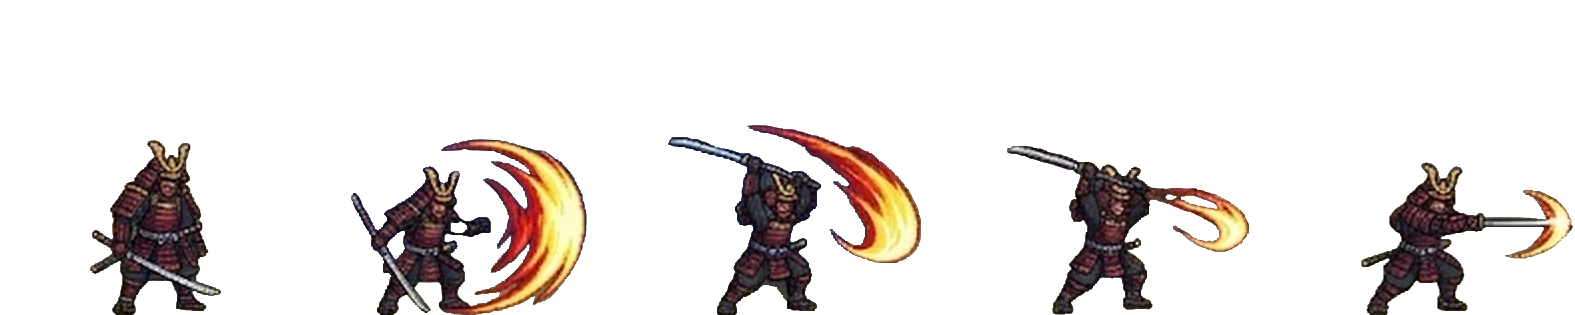
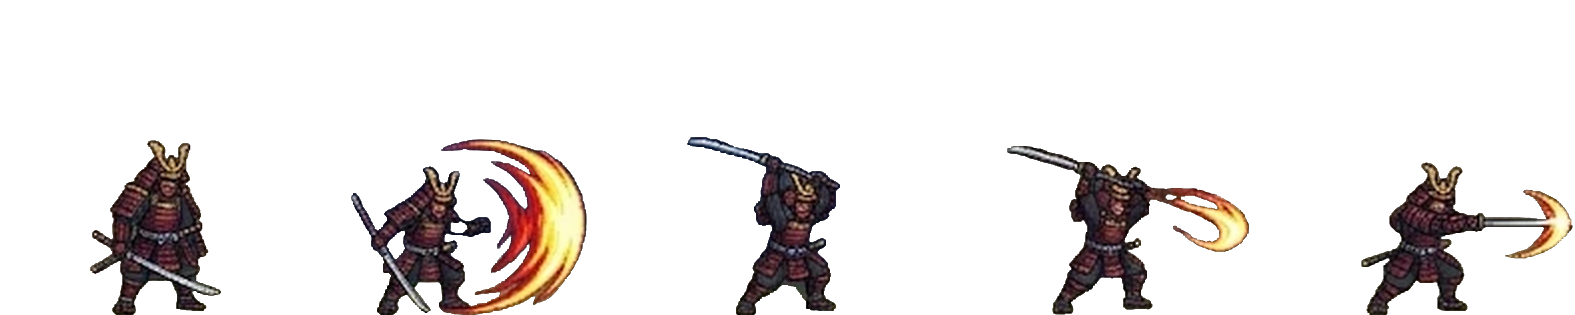
Art clean-up: remove neighbouring-figure pieces, fused and grid-sliced frames from every summon strip; fan heroes' legs rigged on the real leg columns (scythe, pole, hair, tail stay on the body); vivid red dragon form; summons spawn side by side

Changed region(s): [[0.4044, 0.4, 0.5911, 1.0]]

diff --git a/src/game.js b/src/game.js
@@ -5010,7 +5010,7 @@
   ['kayn', 'rhaast', 'tom', 'jerry', 'luffy', 'sonic', 'kirby', 'jotaro', 'dio', 'miku'].forEach(k => {
     const im = new Image(); im.onload = () => {
       const w = Math.round(im.width * FAN_SC), h = Math.round(im.height * FAN_SC), mk = flip => { const c = document.createElement('canvas'); c.width = w; c.height = h; const x = c.getContext('2d'); x.imageSmoothingEnabled = true; x.imageSmoothingQuality = 'high'; if (flip) { x.translate(w, 0); x.scale(-1, 1); } x.drawImage(im, 0, 0, w, h); return c; };
-      const c = mk(false), f = mk(true); FAN_IMG[k] = { im, spr: { c, f, cw: c, fw: f, w, h } };
+      const c = mk(false), f = mk(true); FAN_IMG[k] = { im, spr: { c, f, cw: c, fw: f, w, h }, parts: fanParts(k, im) };
     }; im.src = 'assets/fanheroes/' + k + '.png';
   });
   const fanKey = (h, P) => (P && P.form === 'rhaast' && h.fan === 'kayn') ? 'rhaast' : h.fan;
@@ -5020,10 +5020,18 @@
   }
   // the hero in play: the drawing at full screen resolution, moved by the shared animator (idle breath, walk, run, jump, hurt red)
   // where the legs start in each picture (fraction of the height): the part below swings as two legs
-  const FAN_RIG = { kayn: 0.74, rhaast: 0.76, tom: 0.84, jerry: 0.86, luffy: 0.8, sonic: 0.84, kirby: 0.8, jotaro: 0.8, dio: 0.8, miku: 0.8 };
+  // legs of each picture in native pixels: hip row, the leg columns x0..x1 and where the left leg ends (sp); everything else
+  // (Kayn's scythe, Rhaast's pole, Miku's twin tails, Jerry's tail...) stays fixed to the body
+  const FAN_RIG = { kayn: [36, 0, 31, 15], rhaast: [37, 4, 32, 18], tom: [39, 7, 29, 18], jerry: [38, 12, 37, 24], luffy: [37, 7, 25, 16], sonic: [40, 11, 36, 23], kirby: [33, 3, 41, 22], jotaro: [38, 0, 31, 15], dio: [38, 6, 26, 16], miku: [38, 10, 25, 17] };
+  function fanParts(key, im) {
+    const r = FAN_RIG[key] || [Math.round(im.height * 0.8), 0, im.width - 1, Math.round(im.width / 2)], [hy, x0, x1, sp] = r, H = im.height, top = hy - 2;
+    const cut = (sx, sy, w, h) => { const c = document.createElement('canvas'); c.width = w; c.height = h; c.getContext('2d').drawImage(im, sx, sy, w, h, 0, 0, w, h); return c; };
+    const body = document.createElement('canvas'); body.width = im.width; body.height = H; const bx = body.getContext('2d'); bx.drawImage(im, 0, 0); bx.clearRect(x0, hy, x1 - x0 + 1, H - hy);
+    return { body, L: cut(x0, top, sp - x0 + 1, H - top), R: cut(sp + 1, top, x1 - sp, H - top), lx: x0, rx: sp + 1, top };
+  }
   // the hero in play: the drawing at full screen resolution, animated like a puppet (body + left leg + right leg)
   function drawFanHero(P, h, x, bot) {
-    const key = fanKey(h, P), o = FAN_IMG[key]; if (!o) return false; const im = o.im, W = im.width, H = im.height, hy = Math.round(H * (FAN_RIG[key] || 0.8)), half = Math.round(W / 2);
+    const key = fanKey(h, P), o = FAN_IMG[key]; if (!o) return false; const im = o.im, W = im.width, H = im.height, pp = o.parts;
     const sp = Math.abs(P.vx), onG = P.onGround, moving = onG && sp > 15, run = sp > RUN * 0.72, f = P.face < 0 ? -1 : 1;
     let bodyY = 0, bodyX = 0, lean = 0, sx = 1, sy = 1; const L = { x: 0, y: 0 }, R = { x: 0, y: 0 };
     if (P.hurtA > 0) { const k = 1 - P.hurtA / 0.36; lean = -0.18 * Math.sin(k * Math.PI); bodyX = -2 * Math.sin(k * Math.PI); }
@@ -5042,8 +5050,8 @@
     if (h.mech === 'toon') { if (P.landA > 0) { sx *= 1.2; sy *= 0.8; } else if (!onG) { sy *= P.vy < 0 ? 1.15 : 1.05; sx *= 2 - sy; } }
     const parts = () => {
       const back = moving && Math.sin(P.anim * (run ? 14 : 9)) > 0 ? 'R' : 'L';   // the leg in front is drawn last
-      const leg = side => { const A = side === 'L' ? L : R, x0 = side === 'L' ? 0 : half, w = side === 'L' ? half : W - half; hiImg(im, x0, hy, w, H - hy, -W / 2 + x0 + A.x, -H + hy + A.y, w, H - hy); };
-      leg(back); hiImg(im, 0, 0, W, hy + 2, -W / 2 + bodyX, -H + bodyY, W, hy + 2); leg(back === 'L' ? 'R' : 'L');
+      const leg = side => { const A = side === 'L' ? L : R, c = side === 'L' ? pp.L : pp.R, lx = side === 'L' ? pp.lx : pp.rx; hiImg(c, 0, 0, c.width, c.height, -W / 2 + lx + A.x, -H + pp.top + A.y, c.width, c.height); };
+      leg(back); hiImg(pp.body, 0, 0, W, H, -W / 2 + bodyX, -H + bodyY, W, H); leg(back === 'L' ? 'R' : 'L');
     };
     g.save(); g.translate(x, bot); g.rotate(lean * f); g.scale(f * FAN_SC * sx, FAN_SC * sy); g.imageSmoothingEnabled = true;
     if (P.dash > 0) g.globalAlpha = 0.75;
@@ -6345,7 +6353,9 @@
     const o = owner || Q.P, G = Q.G; if (!G.sums) G.sums = [];
     const B = Q.boss, tg = B && Q.arenaSealed && !B.dead && !B.hide ? B : nearestFoe(o.x + 4, o.y, 600), dir = tg ? (tg.x + tg.w / 2 < o.x + 4 ? -1 : 1) : o.face;
     const ent = SUM_ENT[kind] || 'beam', fly = !!SUM_FLY[kind], glow = (GIANT[kind] || BEAST[kind]).glow;
-    let x = from ? from.x : (ent === 'shadow' ? o.x + 4 : o.x + 4 + dir * (ent === 'meteor' ? 74 : 56)); if (Q.arenaSealed) x = arenaClamp(x);
+    let x = from ? from.x : (ent === 'shadow' ? o.x + 4 : o.x + 4 + dir * (ent === 'meteor' ? 74 : 56));
+    { const n = G.sums.filter(q => q.life > 0 && !q.dying).length; if (n && !from) x += (n % 2 ? -1 : 1) * 40 * Math.ceil(n / 2); }   // several summons do not stand on top of each other
+    if (Q.arenaSealed) x = arenaClamp(x);
     const sp0 = from ? { x, y: sumProbe(x, from.y - 18, 8) ?? sumSpawnPoint(o, x).y } : sumSpawnPoint(o, x); x = sp0.x;
     const gy = sp0.y, y = fly ? gy - 60 : gy, L = (life || 7) + (ENT_T[ent] || 1) + 1.6;
     const sm = { evo: !!evo, stage: 1, hp: sumHp(1), hpMax: sumHp(1), inv: 9, kind, life: L, max: L, t: 0, x, y, f: dir, cd: 0.6, n: 0, owner: o, ph: 'enter', pt: 0, ent, ex: x, ey: y, fromPet: !!from };
@@ -6696,7 +6706,7 @@
   // ===== the artist's summon sprites (assets/summons, cut from art/summon_sheets by tools/extract_summons.py) =====
   let SUM_MAN = null; const SUM_IMG = {};
   fetch('assets/summons/manifest.json').then(r => r.ok ? r.json() : null).then(m => { SUM_MAN = m || {}; }).catch(() => { SUM_MAN = {}; });
-  const SUM_ALIAS = { dragonform: ['dragonking', 'hue-rotate(-38deg) saturate(1.35) brightness(0.92)'] };
+  const SUM_ALIAS = { dragonform: ['dragonking', 'hue-rotate(-42deg) saturate(1.7) brightness(1.08) contrast(1.05)'] };
   const SUM_H = { titan: 74, stormgod: 74, seagoddess: 68, moongoddess: 68, frostgiant: 80, shogun: 58, treant: 80, aegis: 56, valkyrie: 56, angel: 60, golems: 46, phoenix: 50, dragonking: 66, dragonform: 66, ninetail: 42, clones: 28 };   // body height in world pixels (the hero is ~20)
   function sumArt(k) {
     if (SUM_IMG[k]) return SUM_IMG[k]; if (!SUM_MAN) return null;
@@ -7718,5 +7728,5 @@
       seal(); if (n > 0) { applyForm(Q.boss, n); Q.boss.st = 'intro'; Q.boss.timer = 0; Q.boss.invul = 0; } if (n >= 3) spawnAllies();
     }, 400); }
   { const m = location.search.match(/room=([A-Za-z0-9]{5})/); if (m) setTimeout(() => { enterScene('coop'); coopJoin(m[1]); }, 300); }
-  if (location.search.indexOf('debug') >= 0) window.LL = { getCtx: () => g, get titleSel() { return titleSel; }, setTitleSel: v => { titleSel = v; }, updateTitle, titleLayout, titleItems, titleState: () => title, sumArt, drawSumArt, SUM_H, summonItems, castSummons, useSk, chargeHit, slotId, skNeed, petMorph, startCine, get cn() { return cn; }, drawCine, spawnSummon, updateSummons, sumTarget, summonSprite, summonParts, GIANT, BEAST, dragonSprite, startLevel, coopJoin, coopStart, coopHostNet, coopClientInput, coopClientTick, coopInit, newPlayer, asP, coopHostPlayers, mkCoopTest() { coopInit('host'); coop.me = 0; Q.me = Q.P; Q.P.slot = 0; setHero(Q.P, 'ember'); const p = newPlayer(); p.slot = 1; p.x = Q.P.x - 10; p.y = Q.P.y; p.safe = { x: p.x, y: p.y }; p.bag = { w: ['iron', null], armor: null, pet: null, own: ['iron'] }; p.ammo = { dagger: 5, bomb: 2, flask: 2 }; p.wcd = [0, 0]; p.wmax = [1, 1]; setHero(p, 'ember'); Q.players = [Q.P, p]; return p; }, get Q() { return Q; }, save, genLevel, BIOMES, setScene: s => { scene = s; }, startCut: li => { cutLevel = li; enterScene('cutscene'); }, cutAdv: sec => { for (let i = 0; i < sec * 100; i++) updateCut(0.01); return cut.phase + ' line ' + cut.i; }, cutNext: () => { act.okP = true; updateCut(0.01); act.okP = false; return cut.i; }, EN, BOSS, NPCS, kingSprite, horseSprite, hurtBoss, nextForm, spawnAllies, beginMini, makeFormBoss, FORMS, MINI, completeLevel, updatePlay, act, enterScene, equipItem, fireWeapon, useSlot, updateShopScene, drawShop, pressed, owned, cardAct, setTab, foes, hurtPlayer, grantLeek, openCard: id => { shopCard = { it: ITEM[id], opt: 0 }; }, shopSel: i => { shopIdx = i; }, get scene() { return scene; }, get op() { return op; }, startOpening, get coop() { return coop; }, resumeLevel, NET, coopUI, HEROES, setHero, heroSkill, clearPressed, solid, ch, maxHP, openGate, explode, solveAll() { for (const gd of Q.gates) { if (!gd.open) openGate(gd, true); if (gd.need === 'timed') gd.timer = 1e9; } for (const w of Q.L.xwalls) for (const t of w.tiles) { Q.L.grid[t[1]][t[0]] = ' '; Q.brokenX.add(t[0] + ',' + t[1]); } } };
+  if (location.search.indexOf('debug') >= 0) window.LL = { getCtx: () => g, get titleSel() { return titleSel; }, setTitleSel: v => { titleSel = v; }, updateTitle, titleLayout, titleItems, titleState: () => title, sumArt, drawSumArt, SUM_H, summonItems, castSummons, get FAN_IMG() { return FAN_IMG; }, FAN_RIG, useSk, chargeHit, slotId, skNeed, petMorph, startCine, get cn() { return cn; }, drawCine, spawnSummon, updateSummons, sumTarget, summonSprite, summonParts, GIANT, BEAST, dragonSprite, startLevel, coopJoin, coopStart, coopHostNet, coopClientInput, coopClientTick, coopInit, newPlayer, asP, coopHostPlayers, mkCoopTest() { coopInit('host'); coop.me = 0; Q.me = Q.P; Q.P.slot = 0; setHero(Q.P, 'ember'); const p = newPlayer(); p.slot = 1; p.x = Q.P.x - 10; p.y = Q.P.y; p.safe = { x: p.x, y: p.y }; p.bag = { w: ['iron', null], armor: null, pet: null, own: ['iron'] }; p.ammo = { dagger: 5, bomb: 2, flask: 2 }; p.wcd = [0, 0]; p.wmax = [1, 1]; setHero(p, 'ember'); Q.players = [Q.P, p]; return p; }, get Q() { return Q; }, save, genLevel, BIOMES, setScene: s => { scene = s; }, startCut: li => { cutLevel = li; enterScene('cutscene'); }, cutAdv: sec => { for (let i = 0; i < sec * 100; i++) updateCut(0.01); return cut.phase + ' line ' + cut.i; }, cutNext: () => { act.okP = true; updateCut(0.01); act.okP = false; return cut.i; }, EN, BOSS, NPCS, kingSprite, horseSprite, hurtBoss, nextForm, spawnAllies, beginMini, makeFormBoss, FORMS, MINI, completeLevel, updatePlay, act, enterScene, equipItem, fireWeapon, useSlot, updateShopScene, drawShop, pressed, owned, cardAct, setTab, foes, hurtPlayer, grantLeek, openCard: id => { shopCard = { it: ITEM[id], opt: 0 }; }, shopSel: i => { shopIdx = i; }, get scene() { return scene; }, get op() { return op; }, startOpening, get coop() { return coop; }, resumeLevel, NET, coopUI, HEROES, setHero, heroSkill, clearPressed, solid, ch, maxHP, openGate, explode, solveAll() { for (const gd of Q.gates) { if (!gd.open) openGate(gd, true); if (gd.need === 'timed') gd.timer = 1e9; } for (const w of Q.L.xwalls) for (const t of w.tiles) { Q.L.grid[t[1]][t[0]] = ' '; Q.brokenX.add(t[0] + ',' + t[1]); } } };
 })();

diff --git a/tools/declutter_summons.py b/tools/declutter_summons.py
@@ -1,0 +1,122 @@
+# Third pass over the summon strips: removes pieces of the NEIGHBOURING figure that the first cut kept (a second dragon's wing,
+# another phoenix, a stray tail...), then re-packs every strip on the figure's feet and updates the manifest.
+# Keeps: the biggest piece, small bits right next to it, and pieces that lie mostly inside its box. Attack strips keep their
+# effects in front of the figure (fireballs, slashes).
+# Usage: python tools/declutter_summons.py   (Pillow + numpy)
+import json
+import numpy as np
+from PIL import Image
+import importlib.util, sys
+spec = importlib.util.spec_from_file_location('cs', 'tools/clean_summons.py')
+OUT = 'assets/summons'
+
+def label(mask):
+    h, w = mask.shape; lab = np.zeros((h, w), np.int32); sizes = [0]; n = 0
+    for y in range(h):
+        for x in range(w):
+            if mask[y, x] and not lab[y, x]:
+                n += 1; st = [(y, x)]; lab[y, x] = n; c = 0
+                while st:
+                    cy, cx = st.pop(); c += 1
+                    for ny, nx in ((cy + 1, cx), (cy - 1, cx), (cy, cx + 1), (cy, cx - 1), (cy + 1, cx + 1), (cy - 1, cx - 1), (cy + 1, cx - 1), (cy - 1, cx + 1)):
+                        if 0 <= ny < h and 0 <= nx < w and mask[ny, nx] and not lab[ny, nx]:
+                            lab[ny, nx] = n; st.append((ny, nx))
+                sizes.append(c)
+    return lab, sizes
+
+def declutter(a, attack):
+    m = a[..., 3] > 40
+    lab, sizes = label(m)
+    if len(sizes) <= 2: return a, 0
+    boxes = {}
+    for i in range(1, len(sizes)):
+        ys, xs = np.where(lab == i); boxes[i] = (xs.min(), ys.min(), xs.max(), ys.max())
+    main = max(range(1, len(sizes)), key=lambda i: sizes[i])
+    mx0, my0, mx1, my1 = boxes[main]; keep = np.zeros(len(sizes), bool); keep[main] = True; dropped = 0
+    # which way the figure faces: the side with more of its mass in the top half is the head (front)
+    for i in range(1, len(sizes)):
+        if i == main: continue
+        x0, y0, x1, y1 = boxes[i]; area = (x1 - x0 + 1) * (y1 - y0 + 1)
+        ix = max(0, min(x1, mx1) - max(x0, mx0) + 1); iy = max(0, min(y1, my1) - max(y0, my0) + 1)
+        inside = ix * iy / area
+        gap = max(mx0 - x1, x0 - mx1, my0 - y1, y0 - my1, 0)
+        small = sizes[i] < sizes[main] * 0.08
+        if inside >= 0.7 or (small and gap <= 4) or (attack and sizes[i] < sizes[main] * 0.6 and gap <= 40 and inside > 0):
+            keep[i] = True
+        elif attack and sizes[i] < sizes[main] * 0.5 and abs((y0 + y1) / 2 - (my0 + my1) / 2) < (my1 - my0) * 0.6 and gap <= 60 and sizes[i] > 12:
+            keep[i] = True   # an effect in front of the figure (fireball, slash)
+        else:
+            dropped += 1
+    b = a.copy(); b[..., 3] = np.where(keep[lab], b[..., 3], 0)
+    return b, dropped
+
+def bbox(a):
+    ys, xs = np.where(a[..., 3] > 40)
+    return (xs.min(), ys.min(), xs.max() + 1, ys.max() + 1) if len(xs) else None
+def anchor_x(a, bb):
+    x0, y0, x1, y1 = bb; yc = int(y1 - (y1 - y0) * 0.35)
+    ys, xs = np.where(a[yc:y1, x0:x1, 3] > 40)
+    return x0 + (xs.mean() if len(xs) else (x1 - x0) / 2)
+def pack(frames):
+    fr = []
+    for a in frames:
+        bb = bbox(a)
+        if bb: fr.append((a, anchor_x(a, bb), bb))
+    half = max(max(ax - bb[0], bb[2] - ax) for a, ax, bb in fr); hmax = max(bb[3] - bb[1] for a, ax, bb in fr)
+    S = int(max(hmax, half * 2) + 4)
+    out = Image.new('RGBA', (S * len(fr), S), (0, 0, 0, 0)); chs = []
+    for i, (a, ax, bb) in enumerate(fr):
+        im = Image.fromarray(a).crop(bb)
+        out.alpha_composite(im, (int(round(i * S + S / 2 - (ax - bb[0]))), S - (bb[3] - bb[1]))); chs.append(bb[3] - bb[1])
+    return out, {'n': len(fr), 'ch': float(np.median(chs)), 's': S}
+
+man = json.load(open(f'{OUT}/manifest.json'))
+total = 0
+for kind, strips in man.items():
+    for name in list(strips):
+        if name == 'evo': continue
+        meta = strips[name]; im = np.asarray(Image.open(f'{OUT}/{kind}_{name}.png').convert('RGBA')); S = im.shape[0]; n = meta['n']; cw = im.shape[1] // n
+        frames = []; drop = 0
+        for i in range(n):
+            c = im[:, i * cw:(i + 1) * cw].copy(); c2, d = declutter(c, name == 'attack'); drop += d
+            if bbox(c2): frames.append(c2)
+        out, m2 = pack(frames); out.save(f'{OUT}/{kind}_{name}.png'); strips[name] = m2; total += drop
+        if drop: print(kind, name, 'removed', drop, 'stray pieces')
+json.dump(man, open(f'{OUT}/manifest.json', 'w'), indent=1)
+print('done, removed', total)
+
+# frames where two figures are fused (much wider than the clean ones) or a frame lost half the figure (much shorter): drop them
+man = json.load(open(f'{OUT}/manifest.json'))
+for kind, strips in man.items():
+    for name in ('walk', 'idle', 'hurt'):
+        if name not in strips: continue
+        meta = strips[name]; im = np.asarray(Image.open(f'{OUT}/{kind}_{name}.png').convert('RGBA')); n = meta['n']; cw = im.shape[1] // n
+        cells = [im[:, i * cw:(i + 1) * cw].copy() for i in range(n)]; bbs = [bbox(c) for c in cells]
+        ws = sorted(b[2] - b[0] for b in bbs); hs = [b[3] - b[1] for b in bbs]; hmed = float(np.median(hs))
+        narrow = float(np.mean(ws[:max(1, int(round(n * 0.4)))]))
+        keep = [c for c, b in zip(cells, bbs) if (b[2] - b[0]) <= narrow * 1.3 and (b[3] - b[1]) >= hmed * 0.8]
+        if len(keep) >= 3 and len(keep) < n:
+            out, m2 = pack(keep); out.save(f'{OUT}/{kind}_{name}.png'); strips[name] = m2; print(kind, name, 'dropped', n - len(keep), 'fused/broken frames')
+json.dump(man, open(f'{OUT}/manifest.json', 'w'), indent=1)
+
+# frames whose figure was sliced by the sheet's grid (a long straight vertical edge on its left or right side): drop them
+def cut_edge(c):
+    a = c[..., 3] > 40; ys, xs = np.where(a)
+    if not len(xs): return 0
+    x0, x1, y0, y1 = xs.min(), xs.max(), ys.min(), ys.max(); h = y1 - y0 + 1
+    def run(col):
+        best = cur = 0
+        for v in a[y0:y1 + 1, col]: cur = cur + 1 if v else 0; best = max(best, cur)
+        return best / h
+    return max(run(x0), run(x1))
+man = json.load(open(f'{OUT}/manifest.json'))
+for kind, strips in man.items():
+    for name in ('walk', 'death', 'hurt', 'idle', 'attack'):
+        if name not in strips: continue
+        meta = strips[name]; im = np.asarray(Image.open(f'{OUT}/{kind}_{name}.png').convert('RGBA')); n = meta['n']; cw = im.shape[1] // n
+        cells = [im[:, i * cw:(i + 1) * cw].copy() for i in range(n)]
+        lim = 0.45 if name == 'walk' else 0.9
+        keep = [c for c in cells if cut_edge(c) <= lim]
+        if len(keep) < n and len(keep) >= (3 if name == 'walk' else 2):
+            out, m2 = pack(keep); out.save(f'{OUT}/{kind}_{name}.png'); strips[name] = m2; print(kind, name, 'dropped', n - len(keep), 'sliced frames')
+json.dump(man, open(f'{OUT}/manifest.json', 'w'), indent=1)

diff --git a/README.md b/README.md
@@ -380,3 +380,13 @@ The same rules a Unity Rigidbody2D summon would use (raycast spawn, Y driven onl
 | Jotaro | Star Platinum punches with every attack | Ora Ora barrage |
 | Dio | A knife with every attack | The World: 3.5 s time stop; knives fill the screen around enemies and fly when time flows |
 
+## Art clean-up (summons and fan heroes)
+- `tools/declutter_summons.py` is a third pass over every summon strip:
+  - It removes pieces of the neighbouring figure that the first cut kept (27 stray wings, tails and half-dragons).
+  - It drops frames where two figures were fused into one or the figure lost half of itself.
+  - It drops frames that the sheet's grid had sliced with a straight edge.
+  - It then re-packs each strip on the figure's feet and updates the manifest.
+- Each fan hero's legs are measured on its own picture (`FAN_RIG`: hip row and leg columns). Only the real legs swing; Kayn's scythe, Rhaast's pole, Miku's twin tails and Jerry's tail stay on the body.
+- The pet's red dragon form is now a vivid red instead of a muddy brown.
+- Summons called at the same time appear side by side instead of on top of each other.
+
